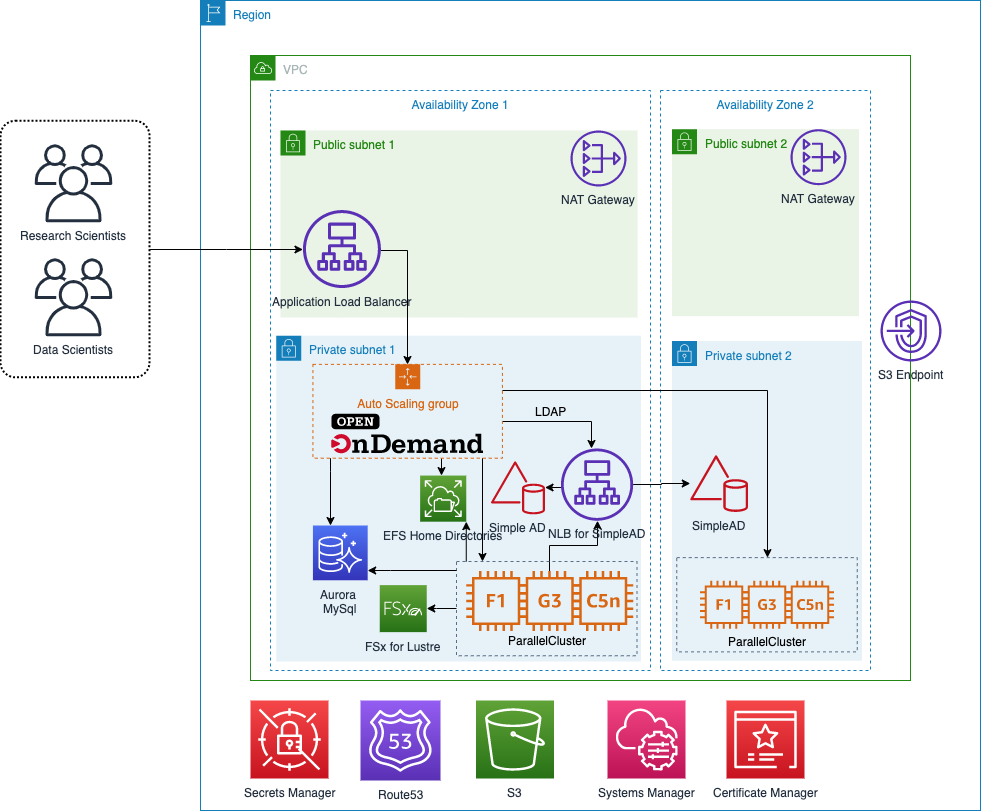
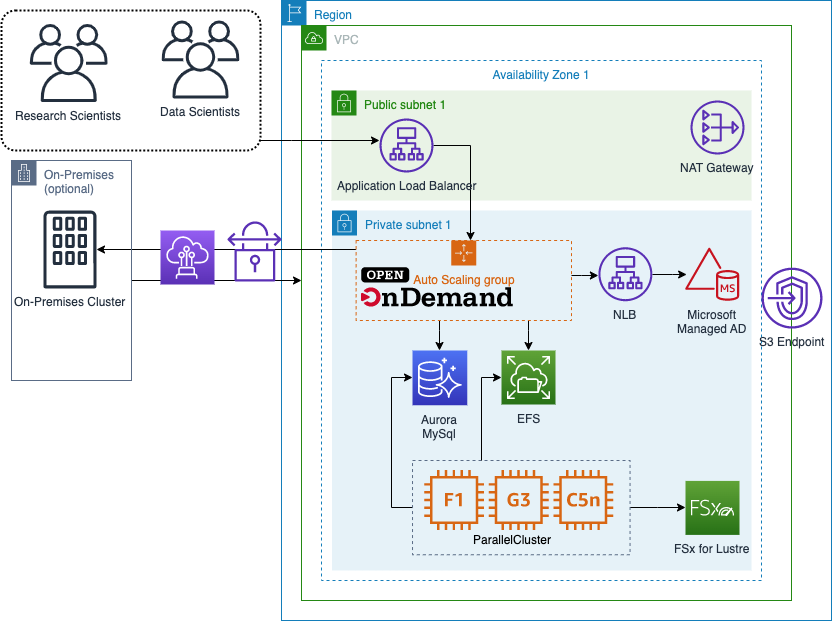
Diagram updates

diff --git a/README.md b/README.md
@@ -10,8 +10,8 @@ The primary components of the solution are:
 
 1. Application load balancer as the entry point to your OOD portal.
 1. An Auto Scaling Group for the OOD Portal.
-1. A SimpleAD LDAP Directory
-1. A Network Load Balancer (NLB) to provide a single point of connectivity to SimpleAD
+1. A Microsoft ManagedAD Directory
+1. A Network Load Balancer (NLB) to provide a single point of connectivity to Microsoft ManagedAD
 1. An Elastic File System (EFS) share for user home directories
 1. An Aurora MySQL database to store Slurm Accounting data
 1. Automation via Event Bridge to automatically register and deregister Parallel Cluster HPC Clusters with OOD
